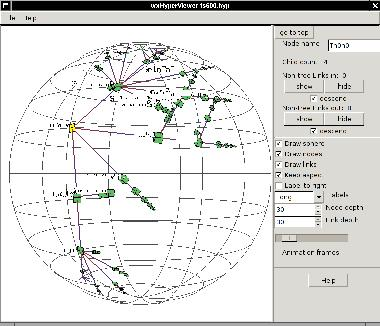
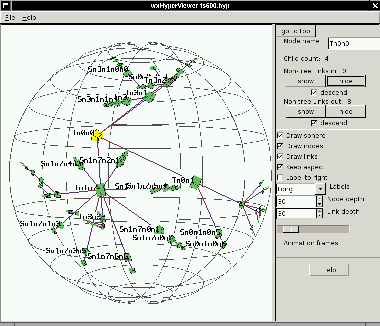
Corrected images, with text labels showing.

diff --git a/www/hyperviewer/index.html b/www/hyperviewer/index.html
@@ -1,8 +1,8 @@
 <!DOCTYPE html PUBLIC "-//W3C//DTD HTML 4.01 Transitional//EN">
 <html>
 <head>
-  <meta http-equiv="content-type"
- content="text/html; charset=ISO-8859-1">
+  <meta content="text/html; charset=ISO-8859-1"
+ http-equiv="content-type">
   <title>HyperViewer in Emulab</title>
 </head>
 <body>
@@ -35,9 +35,9 @@ further description, particularly <a
 Unix file system.<br>
 &nbsp;<a
  href="http://graphics.stanford.edu/papers/h3cga/html/cga.html#hypmotionfig"><img
- src="image1.jpg" title="Hyperbolic Motion - Figure 3"
- alt="Hyperbolic Motion - Figure 3"
- style="border: 2px solid ; width: 149px; height: 150px;"></a><br>
+ style="border: 2px solid ; width: 149px; height: 150px;"
+ alt="Hyperbolic Motion - Figure 3" title="Hyperbolic Motion - Figure 3"
+ src="image1.jpg"></a><br>
 <br>
 The basic idea is that a graph is presented within a sphere that
 resembles a fish-eye lens: objects in the center of the sphere appear
@@ -47,8 +47,8 @@ infinite 3D space onto the finite sphere.&nbsp; M.C. Esher did likewise
 in 2D with <a href="http://mathworld.wolfram.com/HyperbolicTiling.html">hyperbolic
 tilings</a>.<br>
 <a href="http://www.mcescher.com/Gallery/recogn-bmp/LW436.jpg"><img
- src="LW436-thumb.jpg" title="Click for full-size image" alt=""
- style="border: 2px solid ; width: 106px; height: 106px;"></a><br>
+ style="border: 2px solid ; width: 106px; height: 106px;" alt=""
+ title="Click for full-size image" src="LW436-thumb.jpg"></a><br>
 <h3><a name="install"></a>Installing hypview</h3>
 Getting and unpacking the tarball:<br>
 <ul>
@@ -109,18 +109,18 @@ window.<br>
 <br>
 Here's an example of the appearance of hypview once it is running:<br>
 <ul style="margin-left: 120px;">
-  <li>Note: there should be text labels on the nodes.&nbsp; They are
-only
-partially showing due to a bug in the Radeon DRI driver for OpenGL.</li>
+  <li>Note: Text labels on the nodes may show only
+partially on your display if you have an ATI Radeon card, due to a bug
+in the DRI driver for OpenGL.</li>
   <li>Note: the window comes up split down the middle now.&nbsp; Drag
 the
-divider to the right so it looks like the picture above.&nbsp; Also,
+divider to the right so it looks like the picture below.&nbsp; Also,
 resizing the window mis-aligns the OpenGL picking, so don't do that
 yet...</li>
 </ul>
 <div style="margin-left: 40px;"><a href="gui_top.jpg"><img
- style="border: 2px solid ; width: 380px; height: 326px;" alt=""
- title="Click for full-size image." src="gui_top_small.jpg"></a><br>
+ src="gui_top_small.jpg" title="Click for full-size image." alt=""
+ style="border: 2px solid ; width: 380px; height: 326px;"></a><br>
 </div>
 <br>
 The pane on the left contains the HyperViewer.&nbsp; The pane on the
@@ -132,8 +132,8 @@ at
 the top of the window, or typing Ctrl-H, pops up a window describing
 the HyperViewer mouse controls which apply to the left pane:</li>
 </ul>
-<div style="margin-left: 80px;"><img
- style="width: 354px; height: 261px;" alt="" src="mouse_usage.jpg"></div>
+<div style="margin-left: 80px;"><img src="mouse_usage.jpg" alt=""
+ style="width: 354px; height: 261px;"></div>
 <div style="margin-left: 40px;"><br>
 <ul>
   <li>One way to navigate is to drag the view.&nbsp; Here is a picture
@@ -145,9 +145,9 @@ visible.&nbsp; <br>
 details to lower levels.&nbsp; The right mouse button rotates what is
 behind to the front so you can better see it.</li>
 </ul>
-<div style="margin-left: 40px;"><a href="gui_top2.jpg"><img
- src="gui_top_small2.jpg" alt=""
- style="border: 2px solid ; width: 380px; height: 326px;" align="top"></a></div>
+<div style="margin-left: 40px;"><a href="gui_top2.jpg"><img align="top"
+ style="border: 2px solid ; width: 380px; height: 326px;" alt=""
+ src="gui_top_small2.jpg" title="Click for full-size image."></a></div>
 <ul>
   <li>As you move the mouse over the boxes representing nodes (hosts or
 lans), they turn bright green.&nbsp; Clicking on a bright green box
@@ -155,9 +155,9 @@ selects it to move to the center of the sphere.&nbsp; Its bright yellow
 color denotes its selected status.&nbsp; So you can walk through a tree
 that way as well.</li>
 </ul>
-<div style="margin-left: 40px;"><a href="gui_top3.jpg"><img
- src="gui_top_small3.jpg" alt=""
- style="border: 2px solid ; width: 380px; height: 326px;" align="top"></a><br>
+<div style="margin-left: 40px;"><a href="gui_top3.jpg"><img align="top"
+ style="border: 2px solid ; width: 380px; height: 326px;" alt=""
+ src="gui_top_small3.jpg" title="Click for full-size image."></a><br>
 </div>
 <br>
 The control panel at the right is divided into two sections.&nbsp; The
@@ -182,18 +182,22 @@ node.<br>
     </li>
   </ul>
 </ul>
-<div style="margin-left: 40px;"><img src="gui_node.jpg" alt=""
- style="width: 215px; height: 235px;"><br>
+<div style="margin-left: 40px;"><img
+ style="width: 215px; height: 235px;" alt="" src="gui_node.jpg"><br>
 </div>
 <br>
 These controls are used to explore networks with many
 cross-links.&nbsp; The cross-links are not visible at first.&nbsp; Here
-is an example (ts600.hyp) where the links are then turned on:<br>
+is an example (ts600.hyp) where the links are then turned on by
+clicking either of the "show" buttons for the whole tree (descending
+from the root):<br>
 <br>
-<a href="ts600_hide_small.jpg"><img src="ts600_hide_small.jpg" alt=""
- style="border: 2px solid ; width: 380px; height: 326px;"></a><a
- href="ts600_show.jpg"><img src="ts600_show_small.jpg" alt=""
- style="border: 2px solid ; width: 380px; height: 326px;"></a><br>
+<a href="ts600_hide.jpg"><img
+ style="border: 2px solid ; width: 380px; height: 326px;" alt=""
+ src="ts600_hide_small.jpg" title="Click for full-size image."></a><a
+ href="ts600_show.jpg"><img
+ style="border: 2px solid ; width: 380px; height: 326px;" alt=""
+ src="ts600_show_small.jpg" title="Click for full-size image."></a><br>
 <div style="margin-left: 40px;"><br>
 </div>
 <br>
@@ -215,8 +219,8 @@ the change of view when a node is picked as the new center.&nbsp; (Not
 working yet.)<br>
   </li>
 </ul>
-<div style="margin-left: 40px;"><img src="gui_modes.jpg" alt=""
- style="width: 211px; height: 275px;"><br>
+<div style="margin-left: 40px;"><img
+ style="width: 211px; height: 275px;" alt="" src="gui_modes.jpg"><br>
 </div>
 <br>
 </div>
@@ -235,8 +239,8 @@ actually writes a temp .hyp file.&nbsp; You will see the file name on
 the window title if you want to save the file.<br>
   </li>
 </ul>
-<div style="margin-left: 40px;"><img src="open_dialog.jpg" alt=""
- style="width: 416px; height: 327px;"><br>
+<div style="margin-left: 40px;"><img
+ style="width: 416px; height: 327px;" alt="" src="open_dialog.jpg"><br>
 </div>
 <br>
 </body>
